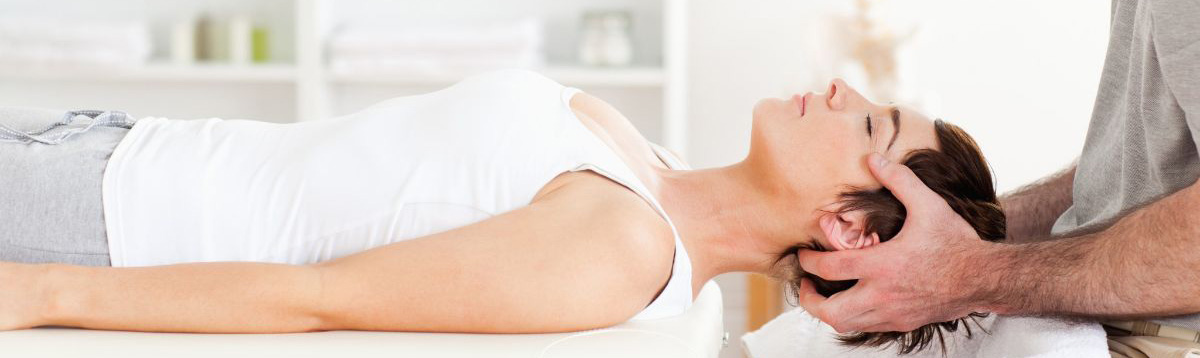
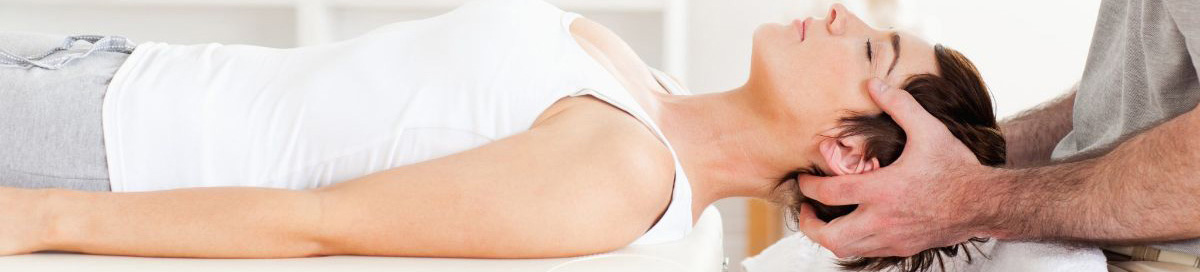
updated everything

diff --git a/index.html b/index.html
@@ -55,10 +55,56 @@
     </div><!-- /.container-fluid -->
   </nav>
   <img class="opener" href='#' src="img/chiropractic.jpg">
+<h1>Dr. Kyle Steineman</h1>
+    <div id="carousel-example-generic" class="carousel slide" data-ride="carousel">
+    <!-- Indicators -->
+    <ol class="carousel-indicators">
+      <li data-target="#carousel-example-generic" data-slide-to="0" class="active"></li>
+      <li data-target="#carousel-example-generic" data-slide-to="1"></li>
+      <li data-target="#carousel-example-generic" data-slide-to="2"></li>
+      <li data-target="#carousel-example-generic" data-slide-to="3"></li>
+      <li data-target="#carousel-example-generic" data-slide-to="4"></li>
+    </ol>
+
+    <!-- Wrapper for slides -->
+    <div class="carousel-inner" role="listbox">
+      <div class="item active">
+        <img src="img/gallery/avp.jpg" alt="...">
+        <div class="carousel-caption">
+        </div>
+      </div>
+      <div class="item">
+        <img src="img//gallery/avp2.jpg" alt="...">
+        <div class="carousel-caption">
+        </div>
+      </div>
+      <div class="item">
+        <img src="img//gallery/theraband.jpg" alt="...">
+        <div class="carousel-caption">
+        </div>
+      </div>
+      <div class="item">
+        <img src="img//gallery/disney.jpg" alt="...">
+        <div class="carousel-caption">
+        </div>
+      </div>
+    </div>
+
+    <!-- Controls -->
+    <a class="left carousel-control" href="#carousel-example-generic" role="button" data-slide="prev">
+      <span class="glyphicon glyphicon-chevron-left" aria-hidden="true"></span>
+      <span class="sr-only">Previous</span>
+    </a>
+    <a class="right carousel-control" href="#carousel-example-generic" role="button" data-slide="next">
+      <span class="glyphicon glyphicon-chevron-right" aria-hidden="true"></span>
+      <span class="sr-only">Next</span>
+    </a>
+  </div>
   <h1>Hello I am Dr. Kyle Steineman!</h1>
-  <!--image-->
-  <img class="headerImage" href='#' src="img/smaug.jpg">
-  <p class="para">I love gold.  I love gold.  I love gold.  I love gold.  I love gold.  I love gold.  I love gold.  I love gold.  I love gold.  I love gold.  I love gold.  I love gold.  I love gold.  I love gold.  I love gold.  I love gold.  I love gold.  I love gold.  I love gold.  I love gold.  I love gold.  I love gold.  I love gold.  I love gold.  I love gold.  I love gold.  I love gold.  I love gold.  I love gold.  I love gold.  I love gold.  I love gold.  I love gold.  I love gold.  I love gold.  I love gold.  I love gold.  I love gold.  I love gold.  I love gold.  I love gold.  I love gold.  I love gold.  I love gold.  I love gold.  I love gold.  I love gold.  I love gold.  I love gold.  I love gold.  I love gold.  I love gold.  I love gold.  I love gold.  I love gold.  I love gold.  I love gold.  I love gold.  I love gold.  I love gold.  I love gold.  I love gold.  I love gold.  I love gold.  I love gold.  I love gold.  I love gold.  I love gold.  I love gold.  I love gold.  I love gold.  I love gold.  I love gold.  I love gold.  I love gold.  I love gold.  I love gold.  I love gold.  I love gold.  I love gold.  I love gold.  I love gold.  I love gold.  I love gold.  I love gold.  I love gold.  I love gold.  I love gold.  I love gold.  I love gold.  I love gold.  I love gold.  I love gold.  I love gold.  I love gold.  I love gold.  I love gold.  I love gold.  I love gold.  I love gold.  I love gold.  I love gold.  I love gold.  I love gold.  I love gold.  I love gold.  I love gold.  I love gold.  I love gold.  I love gold.  I love gold.  I love gold.  I love gold.  I love gold.  I love gold.  I love gold.  I love gold.  I love gold.  I love gold.  I love gold.  I love gold.  I love gold.  I love gold.  I love gold.  I love gold.  I love gold.  I love gold.  I love gold.  I love gold.  I love gold.  I love gold.  I love gold.  I love gold.  I love gold.  I love gold.  I love gold.  I love gold.  I love gold.</p>
+
+  <p class="para">Physical health, ergonomics and nutrition are lifestyle issues that can be confusing. Contrasting information appears to abound, which leaves many confused and this includes individuals, health care practitioners, employers, and various organizations. The purpose of Dr. Steineman's consulting is to help reduce the confusion and make implementing changes a stress-free activity, whether it be for the home, practice, workplace, and/or organization.
+  The consulting fee with Dr. Steineman is $200 per hour. Additional fees will be involved if information review,</p>
+
 <!-- back to top button -->
 <a href="#" class="back-to-top">Back to Top</a>
 </body>

diff --git a/shop.html b/shop.html
@@ -37,12 +37,13 @@
               <li role="separator" class="divider"></li>
               <li><a href="dropdown.html#manual">Manual Therapy</a></li>
               <li role="separator" class="divider"></li>
-              <li><a href="dropdown.html#manual">Nutrition</a></li>
+              <li><a href="dropdown.html#nutrition">Nutrition</a></li>
             </ul>
           </li>
-          <li class="active"><a href="photo-gallery.html">Photo Gallery</a>
-            <li><a href="speaking.html">Speaking</a></li>
+          <li><a href="photo-gallery.html">Photo Gallery</a>
+            <li class="active"><a href="speaking.html">Speaking</a></li>
             <li><a href="contact.html">Contact</a>
+              <li><a href="shop.html">Purchase Meal Plans</a>
           </li>
         </ul>
         <form class="navbar-form navbar-right">
@@ -55,76 +56,10 @@
     </div><!-- /.container-fluid -->
   </nav>
   <img class="opener" href='#' src="img/chiropractic.jpg">
-<div class="photos">
-<div class="container">
-       <div class="row">
 
-           <div class="col-lg-12">
-               <h1 class="page-header">Photo Gallery</h1>
-           </div>
+<!--Shop for purchasing plans -->
 
-           <div class="col-lg-3 col-md-4 col-xs-6 thumb">
-               <a class="thumbnail" href="#">
-                   <img class="img-responsive" src="img/gallery/avp.jpg" alt="AVP Tournament">
-               </a>
-           </div>
-           <div class="col-lg-3 col-md-4 col-xs-6 thumb">
-               <a class="thumbnail" href="#">
-                   <img class="img-responsive" src="img/gallery/avp2.jpg" alt="AVP Tournament">
-               </a>
-           </div>
-           <div class="col-lg-3 col-md-4 col-xs-6 thumb">
-               <a class="thumbnail" href="#">
-                   <img class="img-responsive" src="img/gallery/disney.jpg" alt="Disney Marathon">
-               </a>
-           </div>
-           <div class="col-lg-3 col-md-4 col-xs-6 thumb">
-               <a class="thumbnail" href="#">
-                   <img class="img-responsive" src="img/gallery/graduation.jpg" alt="NUHS Graduation">
-               </a>
-           </div>
-           <div class="col-lg-3 col-md-4 col-xs-6 thumb">
-               <a class="thumbnail" href="#">
-                   <img class="img-responsive" src="img/gallery/jake.jpg" alt="Picture with Dr. Jake Levire">
-               </a>
-           </div>
-           <div class="col-lg-3 col-md-4 col-xs-6 thumb">
-               <a class="thumbnail" href="#">
-                   <img class="img-responsive" src="img/gallery/avp.jpg" alt="">
-               </a>
-           </div>
-           <div class="col-lg-3 col-md-4 col-xs-6 thumb">
-               <a class="thumbnail" href="#">
-                   <img class="img-responsive" src="img/gallery/theraband.jpg" alt="">
-               </a>
-           </div>
-           <div class="col-lg-3 col-md-4 col-xs-6 thumb">
-               <a class="thumbnail" href="#">
-                   <img class="img-responsive" src="img/gallery/symposium.jpg" alt="">
-               </a>
-           </div>
-           <div class="col-lg-3 col-md-4 col-xs-6 thumb">
-               <a class="thumbnail" href="#">
-                   <img class="img-responsive" src="http://placehold.it/400x300" alt="">
-               </a>
-           </div>
-           <div class="col-lg-3 col-md-4 col-xs-6 thumb">
-               <a class="thumbnail" href="#">
-                   <img class="img-responsive" src="http://placehold.it/400x300" alt="">
-               </a>
-           </div>
-           <div class="col-lg-3 col-md-4 col-xs-6 thumb">
-               <a class="thumbnail" href="#">
-                   <img class="img-responsive" src="http://placehold.it/400x300" alt="">
-               </a>
-           </div>
-           <div class="col-lg-3 col-md-4 col-xs-6 thumb">
-               <a class="thumbnail" href="#">
-                   <img class="img-responsive" src="http://placehold.it/400x300" alt="">
-               </a>
-           </div>
-       </div>
-</div>
+
 <!-- back to top button -->
 <a href="#" class="back-to-top">Back to Top</a>
 </body>

diff --git a/about.html b/about.html
@@ -37,7 +37,7 @@
               <li role="separator" class="divider"></li>
               <li><a href="dropdown.html#manual">Manual Therapy</a></li>
               <li role="separator" class="divider"></li>
-              <li><a href="dropdown.html#manual">Nutrition</a></li>
+              <li><a href="dropdown.html#nutrition">Nutrition</a></li>
             </ul>
           </li>
           <li><a href="photo-gallery.html">Photo Gallery</a>
@@ -56,9 +56,10 @@
   </nav>
   <img class="opener" href='#' src="img/chiropractic.jpg">
   <div class="aboutBody">
-<h1>ABOUT KYLE STEINEMAN, DC, ATC, ICCSP, ART®, RYT200, TSAC-F</h1>
-<p>Dr. Kyle Steineman graduated from Manchester College and later, National Univeristy of Health Sciences in 2015.  He later completed a sports nutrition fellowship under the guidance of Dr. Tim Stark at Northwestern Heaelth Sciences University. During his education at National, he was fortunate to have the opportunity to take 2 nutrition classes from Dr. David Seaman.  After sustaining a cervical spine injury while bench pressing, Dr. Kyle integrated anti-inflammatory nutrition into his sports performance training and noticed decreased pain in conjunction with increase performance and benefits to his body composition. This began his career path to learn about the implications nutritional deficits have on performance and injury recovery.  Kyle went on to fuse this interest into his love of sports and began treating athletes of all ages and abilities. He has been fortunate to provide care for athletes ranging from adolescent to professional sports.  He has his International Certified Chiropractic Sports Physician destinction as of 2016.
+<h1>ABOUT KYLE STEINEMAN, DC, ATC, CCSP, ICCSP, ART®, RYT200, TSAC-F</h1>
+<p>Dr. Kyle Steineman graduated from <a href="http://manchester.edu">Manchester Univeristy</a> with a Bachelors fo Science degree in Athletic Training and later earned the Certified Athletic Training license in 2012. Later, he continued his education at <a href="http://nuhs.edu">National University of Health Sciences</a> and graduating in 2015.  During his education at National, he was fortunate to have the opportunity to take 2 nutrition classes from <a href="http://deflame.com">Dr. David Seaman</a>, an expert in anti-inflammatory nutrition.  After sustaining a cervical spine injury while bench pressing, Dr. Kyle integrated anti-inflammatory nutrition into his sports performance training and noticed decreased pain in conjunction with increase performance and benefits to his body composition. This began his career path to learn about the implications nutritional deficits have on performance and injury recovery.  Kyle went on to fuse this interest into his love of sports and began treating athletes of all ages and abilities.  He later completed a sports nutrition fellowship under the guidance of Dr. Tim Stark at <a href="http://nwhealth.edu">Northwestern Health Sciences University</a>. He has been fortunate to provide care for athletes ranging from adolescent to professional sports.  He has his International Certified Chiropractic Sports Physician destinction as of 2016.
 </p>
+<p>When Dr. Steineman isn't treating patients or speaking he enjoys the outdoors and computer programming.</p>
 <h1>PROFESSIONAL MEMBERSHIPS</h1>
 <div class="row">
   <div class="col-sm-6 col-md-4">

diff --git a/speaking.html b/speaking.html
@@ -37,7 +37,7 @@
               <li role="separator" class="divider"></li>
               <li><a href="dropdown.html#manual">Manual Therapy</a></li>
               <li role="separator" class="divider"></li>
-              <li><a href="dropdown.html#manual">Nutrition</a></li>
+              <li><a href="dropdown.html#nutrition">Nutrition</a></li>
             </ul>
           </li>
           <li><a href="photo-gallery.html">Photo Gallery</a>
@@ -55,14 +55,44 @@
     </div><!-- /.container-fluid -->
   </nav>
   <img class="opener" href='#' src="img/chiropractic.jpg">
-<h1 class="col-lg-12" id="header">Coming soon...</h1>
+<h1 class="col-lg-12">Speaking</h1>
 
+<div class="container">
+  <h2>Schedule</h2>
+  <p>Upcoming speaking engagements Dr. Kyle Steineman has coming up:</p>
+  <table class="table table-hover">
+    <thead>
+      <tr>
+        <th>Date</th>
+        <th>Location</th>
+        <th>Topic</th>
+      </tr>
+    </thead>
+    <tbody>
+      <tr>
+        <td>00/00/0000</td>
+        <td>Tortuga</td>
+        <td>Commandeering</td>
+      </tr>
+      <tr>
+        <td>00/00/0000</td>
+        <td>Hogwarts</td>
+        <td>Arts and Craft</td>
+      </tr>
+      <tr>
+        <td>00/00/0000</td>
+        <td>Mordor</td>
+        <td>Jewelry Making</td>
+      </tr>
+    </tbody>
+  </table>
+</div>
 <!-- Consulting -->
 
 <h1 class="col-lg-12">Consulting</h1>
 <p class="col-lg-12 aboutBody">Physical health, ergonomics and nutrition are lifestyle issues that can be confusing. Contrasting information appears to abound, which leaves many confused and this includes individuals, health care practitioners, employers, and various organizations. The purpose of Dr. Steineman's consulting is to help reduce the confusion and make implementing changes a stress-free activity, whether it be for the home, practice, workplace, and/or organization.
 The consulting fee with Dr. Steineman is $200 per hour. Additional fees will be involved if information review, research, program planning, and/or travel are required.
-<br>For more information, contact Dr. Steineman via the Contact link</p>
+<br>For more information, contact Dr. Steineman via the <a href="contact.html">Contact page</a>.</p>
 
 <!-- back to top button -->
 <a href="#" class="back-to-top">Back to Top</a>

diff --git a/css/style.css b/css/style.css
@@ -1,6 +1,6 @@
 .headerImage {
   float: right;
-  width: 50%;
+  width: 15%;
 }
 .para {
   width: 50%;
@@ -8,6 +8,7 @@
 }
 .opener {
   width: 100%;
+  height: 200px;
 }
 .myNav {
   margin-bottom: 0;
@@ -17,6 +18,18 @@ footer {
   padding: 10px;
   text-align: center;
   color: gray;
+}
+.container2 {
+  display: flex;
+  margin-bottom: 300px;
+}
+.indexBox {
+  padding: 80px;
+  background-color: gray;
+  margin: 20px;
+}
+.indexBox li {
+  display: inline-block;
 }
 
 /*************
@@ -62,8 +75,20 @@ Photo Gallery
 .photos {
   margin-bottom: 100px;
 }
+/*************
+Carousel
+*************/
 
-
+.carousel-inner > .item > img {
+    margin: 0 auto;
+    width:50%;
+    height:570px;
+}
+.carousel-control {
+  margin: 0 auto;
+  width:50%;
+  height:570px;  
+}
 /*************
 Back to top button
 *************/

diff --git a/contact.html b/contact.html
@@ -38,7 +38,7 @@
               <li role="separator" class="divider"></li>
               <li><a href="dropdown.html#manual">Manual Therapy</a></li>
               <li role="separator" class="divider"></li>
-              <li><a href="dropdown.html#manual">Nutrition</a></li>
+              <li><a href="dropdown.html#nutrition">Nutrition</a></li>
             </ul>
           </li>
           <li><a href="photo-gallery.html">Photo Gallery</a>

diff --git a/css/contact.css b/css/contact.css
@@ -12,15 +12,6 @@
   text-rendering: optimizeLegibility;
 }
 
-body {
-  font-family: "Roboto", Helvetica, Arial, sans-serif;
-  font-weight: 100;
-  font-size: 12px;
-  line-height: 30px;
-  color: #777;
-  background: white;
-}
-
 .container {
   max-width: 400px;
   width: 100%;
